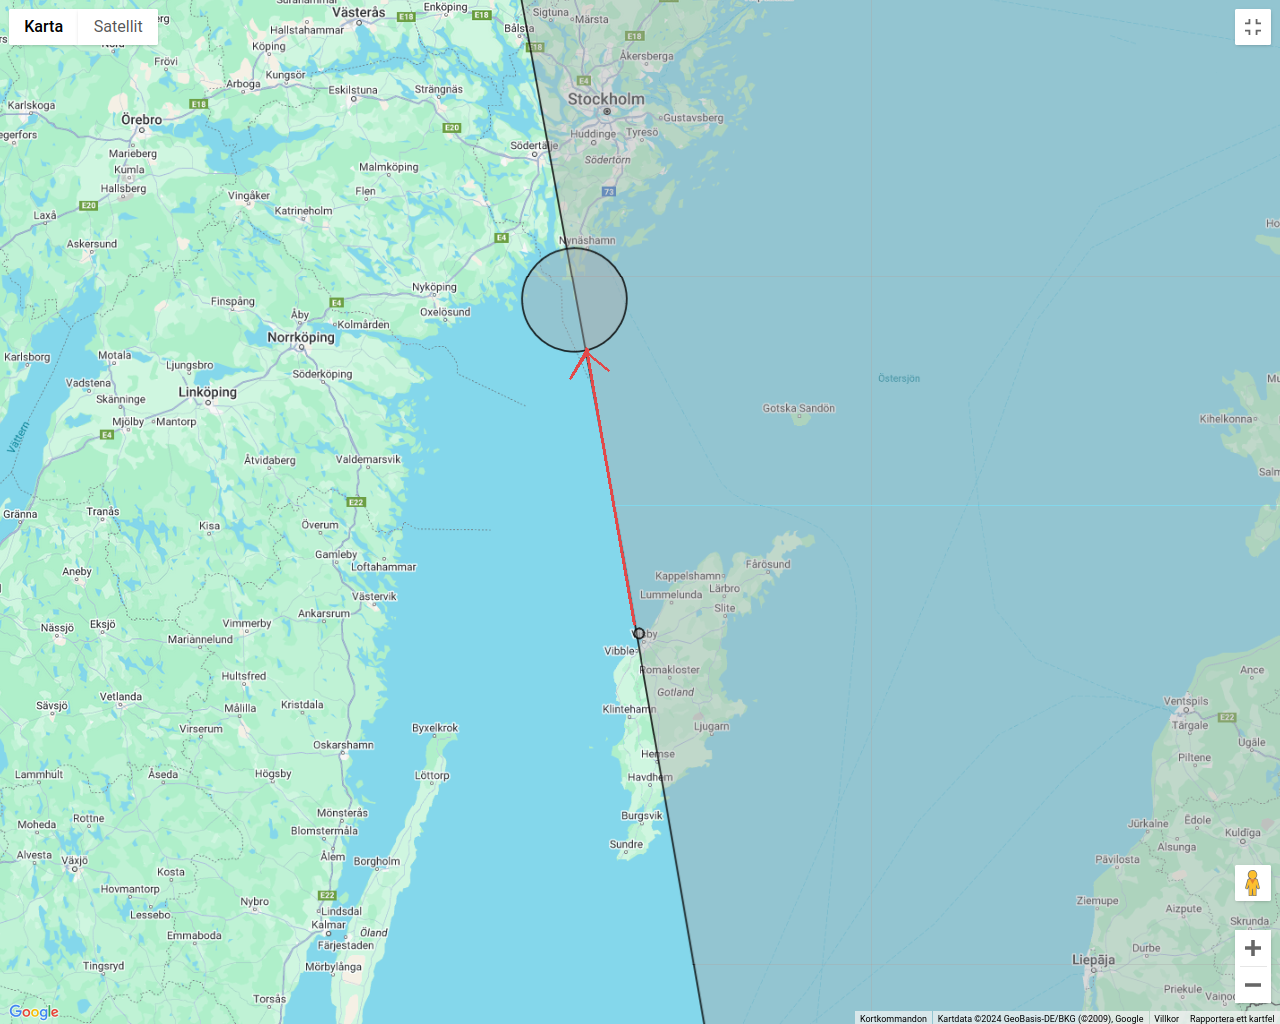
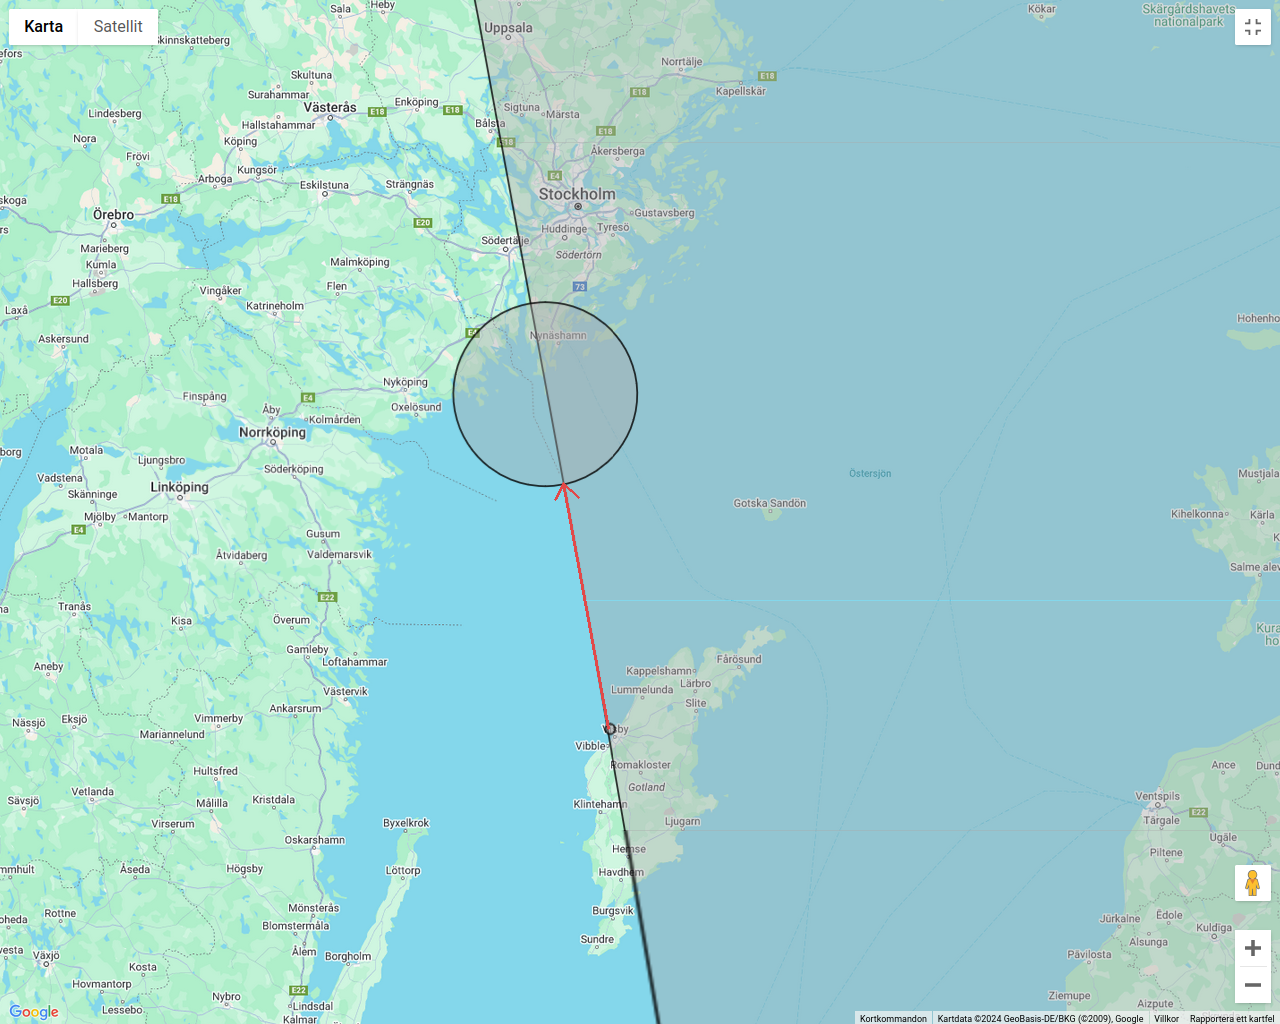
Added a sample on line of sight

diff --git a/starfix.py b/starfix.py
@@ -237,7 +237,17 @@ class Chronometer: # pylint: disable=R0903
 
 # Horizon
 
-def get_dip_of_horizon (hm : int | float, temperature : float, dt_dh : float, pressure : float)\
+def get_adjusted_earth_radius (temperature : float = 10,
+                               dt_dh : float = -0.01, pressure : float = 101) -> float:
+    ''' Calculate the modified earth radius as a result of refraction 
+        Returns : The adjusted radius in km
+    '''
+    k_factor = 503*(pressure*10)*(1/((temperature+273)**2))*(0.0343 + dt_dh)
+    r = EARTH_RADIUS
+    return r / (1 - k_factor)
+
+def get_dip_of_horizon (hm : int | float, temperature : float = 10,
+                        dt_dh : float = -0.01, pressure : float = 101)\
       -> float:
     ''' Calculate dip of horizon in arc minutes 
     Parameters:
@@ -245,20 +255,37 @@ def get_dip_of_horizon (hm : int | float, temperature : float, dt_dh : float, pr
         temperature : temperature in degrees Celsius
         dt_th : temperature gradient in degrees Celsius / meter
     '''
-    k_factor = 503*(pressure*10)*(1/((temperature+273)**2))*(0.0343 + dt_dh)
+    #k_factor = 503*(pressure*10)*(1/((temperature+273)**2))*(0.0343 + dt_dh)
+    #r = EARTH_RADIUS
+    #rr = r / (1 - k_factor)
+    rr = get_adjusted_earth_radius (temperature, dt_dh, pressure)
     h = hm / 1000
-    r = EARTH_RADIUS
-    rr = r / (1 - k_factor)
     the_dip = (acos (rr/(rr+h)))*(180/pi)*60
     return the_dip
+
+def get_line_of_sight (h1 : float, h2 : float, temperature : float = 10,
+                       dt_dh : float = -0.01, pressure : float = 101) -> float:
+    ''' Geometry for line-of-sight '''
+    rr = get_adjusted_earth_radius (temperature, dt_dh, pressure) * 1000
+    x1a = sqrt (((rr + h1)**2) - rr**2)
+    x1r = atan2 (x1a, rr)
+    x1 = x1r * rr
+    x2a = sqrt (((rr + h2)**2) - rr**2)
+    x2r = atan2 (x2a, rr)
+    x2 = x2r * rr
+    return x1 + x2
 
 # Intersections
 
 #pylint: disable=R0903
 class Circle:
-    ''' Helper class for circles '''
+    ''' Helper class for circles (great or small circles) '''
 
     def __init__ (self, latlon : LatLon, angle : int | float):
+        ''' Parameters:
+                latlon : centerpoint
+                angle  : angle of circle in degrees, for a great circle set to 90
+        '''
         self.latlon = latlon
         self.angle = angle
 

diff --git a/starfixdata_sea_3.py b/starfixdata_sea_3.py
@@ -7,7 +7,8 @@
 
 from time import time
 from starfix import LatLon, get_representation,\
-                    get_great_circle_route, Circle, CircleCollection, get_intersections
+                    get_great_circle_route, Circle, CircleCollection, get_intersections,\
+                    get_line_of_sight, nm_to_km, km_to_nm
 def main ():
     ''' Main body of script '''
 
@@ -20,9 +21,22 @@ def main ():
     c_course = 350
     course_gc = get_great_circle_route (s1, c_course)
 
-    # This is lighthouse with estimated visibility 10 nautical miles
+    # This is a position of a lighthouse
     light_house = LatLon (58.739, 17.865)
-    light_house_circle = Circle (light_house, 10/60)
+    # This is the elevation of the light source (m)
+    light_house_elevation = 44.5
+    # This is the maximum reach in nm
+    light_house_max_visibility_nm = 22
+    light_house_max_visibility_m = nm_to_km (light_house_max_visibility_nm) * 1000
+    # This is the elevation of the observer (in the ship)
+    observer_elevation = 3
+    # Calculate the max line of sight
+    line_of_sight = get_line_of_sight (light_house_elevation, observer_elevation)
+    # The actual line of sight is the minimum of max reach and line of sight
+    actual_line_of_sight = min (line_of_sight, light_house_max_visibility_m)
+    actual_line_of_sight_nm = km_to_nm (actual_line_of_sight/1000)
+
+    light_house_circle = Circle (light_house, actual_line_of_sight_nm/60)
 
     # Get the intersections
     intersections = get_intersections (course_gc, light_house_circle)

diff --git a/README.md b/README.md
@@ -655,7 +655,8 @@ a demo for this.
 
 If you start from a specified position (<tt>LatLon</tt>) with a specified course
 expecting to intercept a specific circle, such as the first visibility of a
-lighthouse you can use a script like this one.
+lighthouse you can use a script like this one. This sample also uses a
+calculation on line of sight.
 
     from starfix import LatLon, get_representation,\
                         get_great_circle_route, Circle, get_intersections
@@ -667,14 +668,31 @@ lighthouse you can use a script like this one.
     c_course = 350
     course_gc = get_great_circle_route (s1, c_course)
 
-    # This is lighthouse with estimated visibility 10 nautical miles
+    # This is a position of a lighthouse
     light_house = LatLon (58.739, 17.865)
-    light_house_circle = Circle (light_house, 10/60)
+    # This is the elevation of the light source (m)
+    light_house_elevation = 44.5
+    # This is the maximum reach in nm
+    light_house_max_visibility_nm = 22
+    light_house_max_visibility_m = nm_to_km (light_house_max_visibility_nm) * 1000
+    # This is the elevation of the observer (in the ship)
+    observer_elevation = 3
+    # Calculate the max line of sight
+    line_of_sight = get_line_of_sight (light_house_elevation, observer_elevation)
+    # The actual line of sight is the minimum of max reach and line of sight
+    actual_line_of_sight = min (line_of_sight, light_house_max_visibility_m)
+    actual_line_of_sight_nm = km_to_nm (actual_line_of_sight/1000)
+
+    light_house_circle = Circle (light_house, actual_line_of_sight_nm/60)
 
     # Get the intersections
     intersections = get_intersections (course_gc, light_house_circle)
     assert isinstance (intersections, tuple)
     print (get_representation(intersections[0],1))
+
+    # Check the circles
+    c_c = CircleCollection ([course_gc, light_house_circle, Circle(s1, 1/60)])
+    print ("MD = " + c_c.get_map_developers_string())
 
 The picture below illustrates the result
 
